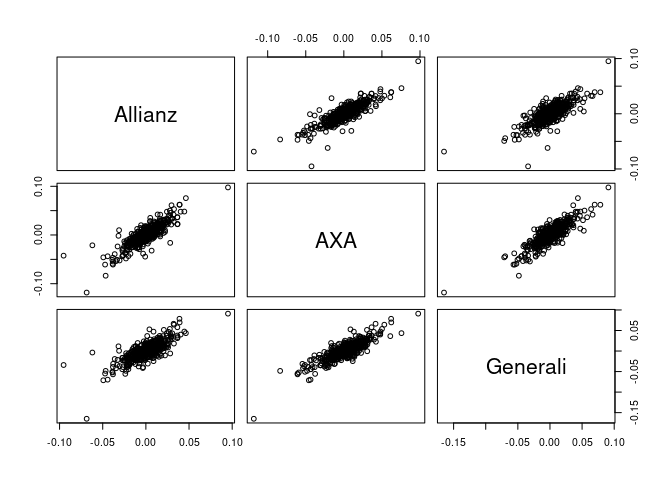
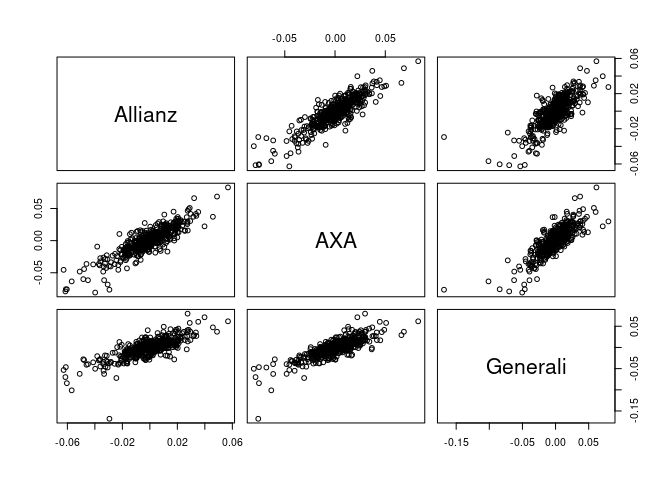
add proper paper reference

diff --git a/docs/index.html b/docs/index.html
@@ -84,7 +84,7 @@
 <div id="usage" class="section level2">
 <h2 class="hasAnchor">
 <a href="#usage" class="anchor"></a>Usage</h2>
-<p>For detailed documentation and examples, see the <a href="https://tnagler.github.io/svines/">API documentation</a>.</p>
+<p>For detailed documentation and examples, see the <a href="http://tnagler.com/svines.pdf">API documentation</a>.</p>
 <div class="sourceCode" id="cb2"><pre class="r"><span class="fu"><a href="https://rdrr.io/r/base/library.html">library</a></span>(<span class="no">svines</span>)
 <span class="co">#&gt; Loading required package: rvinecopulib</span>
 <span class="fu"><a href="https://rdrr.io/r/utils/data.html">data</a></span>(<span class="no">returns</span>)  <span class="co"># data set of stock returns</span>
@@ -169,70 +169,75 @@
 <span class="fu"><a href="https://rdrr.io/r/base/summary.html">summary</a></span>(<span class="no">models</span><span class="kw">[[</span><span class="fl">1</span>]])
 <span class="co">#&gt; $margins</span>
 <span class="co">#&gt; # A data.frame: 3 x 5 </span>
-<span class="co">#&gt;  margin     name          model                          parameters loglik</span>
-<span class="co">#&gt;       1  Allianz Skew Student-t     -0.0011, 0.0173, 2.9614, 0.9345     NA</span>
-<span class="co">#&gt;       2      AXA Skew Student-t -0.00061, 0.02205, 2.70703, 0.94818     NA</span>
-<span class="co">#&gt;       3 Generali      Student-t             -0.0023, 0.0214, 3.6512     NA</span>
+<span class="co">#&gt;  margin     name          model                      parameters loglik</span>
+<span class="co">#&gt;       1  Allianz Skew Student-t -0.0013, 0.0197, 4.9100, 0.9047     NA</span>
+<span class="co">#&gt;       2      AXA Skew Student-t -0.0027, 0.0243, 4.9817, 0.8743     NA</span>
+<span class="co">#&gt;       3 Generali      Student-t      -0.00022, 0.02381, 3.58409     NA</span>
 <span class="co">#&gt; </span>
 <span class="co">#&gt; $copula</span>
 <span class="co">#&gt; # A data.frame: 15 x 10 </span>
-<span class="co">#&gt;  tree edge conditioned conditioning var_types family rotation     parameters df</span>
-<span class="co">#&gt;     1    1        4, 5                    c,c      t        0     0.86, 3.55  2</span>
-<span class="co">#&gt;     1    2        5, 6                    c,c    bb1      180     0.39, 2.15  2</span>
-<span class="co">#&gt;     1    3        6, 1                    c,c    joe      180            1.1  1</span>
-<span class="co">#&gt;     1    4        1, 2                    c,c      t        0     0.86, 3.55  2</span>
-<span class="co">#&gt;     1    5        2, 3                    c,c    bb1      180     0.39, 2.15  2</span>
-<span class="co">#&gt;     2    1        4, 6            5       c,c  frank        0           0.93  1</span>
-<span class="co">#&gt;     2    2        5, 1            6       c,c gumbel      180              1  1</span>
-<span class="co">#&gt;     2    3        6, 2            1       c,c    joe       90              1  1</span>
-<span class="co">#&gt;     2    4        1, 3            2       c,c  frank        0           0.93  1</span>
-<span class="co">#&gt;     3    1        4, 1         6, 5       c,c      t        0 -0.071, 11.814  2</span>
+<span class="co">#&gt;  tree edge conditioned conditioning var_types family rotation  parameters df</span>
+<span class="co">#&gt;     1    1        4, 5                    c,c      t        0  0.85, 3.27  2</span>
+<span class="co">#&gt;     1    2        5, 6                    c,c    bb1      180  0.59, 1.93  2</span>
+<span class="co">#&gt;     1    3        6, 1                    c,c    joe      180         1.1  1</span>
+<span class="co">#&gt;     1    4        1, 2                    c,c      t        0  0.85, 3.27  2</span>
+<span class="co">#&gt;     1    5        2, 3                    c,c    bb1      180  0.59, 1.93  2</span>
+<span class="co">#&gt;     2    1        4, 6            5       c,c  frank        0         1.2  1</span>
+<span class="co">#&gt;     2    2        5, 1            6       c,c gumbel      180           1  1</span>
+<span class="co">#&gt;     2    3        6, 2            1       c,c    joe       90           1  1</span>
+<span class="co">#&gt;     2    4        1, 3            2       c,c  frank        0         1.2  1</span>
+<span class="co">#&gt;     3    1        4, 1         6, 5       c,c      t        0 -0.02, 7.88  2</span>
 <span class="co">#&gt;      tau</span>
-<span class="co">#&gt;   0.6589</span>
-<span class="co">#&gt;   0.6099</span>
-<span class="co">#&gt;   0.0341</span>
-<span class="co">#&gt;   0.6589</span>
-<span class="co">#&gt;   0.6099</span>
-<span class="co">#&gt;   0.0355</span>
-<span class="co">#&gt;   0.0057</span>
-<span class="co">#&gt;  -0.0235</span>
-<span class="co">#&gt;   0.0355</span>
-<span class="co">#&gt;  -0.0452</span>
+<span class="co">#&gt;   0.6423</span>
+<span class="co">#&gt;   0.6012</span>
+<span class="co">#&gt;   0.0575</span>
+<span class="co">#&gt;   0.6423</span>
+<span class="co">#&gt;   0.6012</span>
+<span class="co">#&gt;   0.0450</span>
+<span class="co">#&gt;   0.0066</span>
+<span class="co">#&gt;  -0.0148</span>
+<span class="co">#&gt;   0.0450</span>
+<span class="co">#&gt;  -0.0128</span>
 <span class="co">#&gt; # ... with 5 more rows</span>
 <span class="fu"><a href="https://rdrr.io/r/base/summary.html">summary</a></span>(<span class="no">models</span><span class="kw">[[</span><span class="fl">1</span>]])
 <span class="co">#&gt; $margins</span>
 <span class="co">#&gt; # A data.frame: 3 x 5 </span>
-<span class="co">#&gt;  margin     name          model                          parameters loglik</span>
-<span class="co">#&gt;       1  Allianz Skew Student-t     -0.0011, 0.0173, 2.9614, 0.9345     NA</span>
-<span class="co">#&gt;       2      AXA Skew Student-t -0.00061, 0.02205, 2.70703, 0.94818     NA</span>
-<span class="co">#&gt;       3 Generali      Student-t             -0.0023, 0.0214, 3.6512     NA</span>
+<span class="co">#&gt;  margin     name          model                      parameters loglik</span>
+<span class="co">#&gt;       1  Allianz Skew Student-t -0.0013, 0.0197, 4.9100, 0.9047     NA</span>
+<span class="co">#&gt;       2      AXA Skew Student-t -0.0027, 0.0243, 4.9817, 0.8743     NA</span>
+<span class="co">#&gt;       3 Generali      Student-t      -0.00022, 0.02381, 3.58409     NA</span>
 <span class="co">#&gt; </span>
 <span class="co">#&gt; $copula</span>
 <span class="co">#&gt; # A data.frame: 15 x 10 </span>
-<span class="co">#&gt;  tree edge conditioned conditioning var_types family rotation     parameters df</span>
-<span class="co">#&gt;     1    1        4, 5                    c,c      t        0     0.86, 3.55  2</span>
-<span class="co">#&gt;     1    2        5, 6                    c,c    bb1      180     0.39, 2.15  2</span>
-<span class="co">#&gt;     1    3        6, 1                    c,c    joe      180            1.1  1</span>
-<span class="co">#&gt;     1    4        1, 2                    c,c      t        0     0.86, 3.55  2</span>
-<span class="co">#&gt;     1    5        2, 3                    c,c    bb1      180     0.39, 2.15  2</span>
-<span class="co">#&gt;     2    1        4, 6            5       c,c  frank        0           0.93  1</span>
-<span class="co">#&gt;     2    2        5, 1            6       c,c gumbel      180              1  1</span>
-<span class="co">#&gt;     2    3        6, 2            1       c,c    joe       90              1  1</span>
-<span class="co">#&gt;     2    4        1, 3            2       c,c  frank        0           0.93  1</span>
-<span class="co">#&gt;     3    1        4, 1         6, 5       c,c      t        0 -0.071, 11.814  2</span>
+<span class="co">#&gt;  tree edge conditioned conditioning var_types family rotation  parameters df</span>
+<span class="co">#&gt;     1    1        4, 5                    c,c      t        0  0.85, 3.27  2</span>
+<span class="co">#&gt;     1    2        5, 6                    c,c    bb1      180  0.59, 1.93  2</span>
+<span class="co">#&gt;     1    3        6, 1                    c,c    joe      180         1.1  1</span>
+<span class="co">#&gt;     1    4        1, 2                    c,c      t        0  0.85, 3.27  2</span>
+<span class="co">#&gt;     1    5        2, 3                    c,c    bb1      180  0.59, 1.93  2</span>
+<span class="co">#&gt;     2    1        4, 6            5       c,c  frank        0         1.2  1</span>
+<span class="co">#&gt;     2    2        5, 1            6       c,c gumbel      180           1  1</span>
+<span class="co">#&gt;     2    3        6, 2            1       c,c    joe       90           1  1</span>
+<span class="co">#&gt;     2    4        1, 3            2       c,c  frank        0         1.2  1</span>
+<span class="co">#&gt;     3    1        4, 1         6, 5       c,c      t        0 -0.02, 7.88  2</span>
 <span class="co">#&gt;      tau</span>
-<span class="co">#&gt;   0.6589</span>
-<span class="co">#&gt;   0.6099</span>
-<span class="co">#&gt;   0.0341</span>
-<span class="co">#&gt;   0.6589</span>
-<span class="co">#&gt;   0.6099</span>
-<span class="co">#&gt;   0.0355</span>
-<span class="co">#&gt;   0.0057</span>
-<span class="co">#&gt;  -0.0235</span>
-<span class="co">#&gt;   0.0355</span>
-<span class="co">#&gt;  -0.0452</span>
+<span class="co">#&gt;   0.6423</span>
+<span class="co">#&gt;   0.6012</span>
+<span class="co">#&gt;   0.0575</span>
+<span class="co">#&gt;   0.6423</span>
+<span class="co">#&gt;   0.6012</span>
+<span class="co">#&gt;   0.0450</span>
+<span class="co">#&gt;   0.0066</span>
+<span class="co">#&gt;  -0.0148</span>
+<span class="co">#&gt;   0.0450</span>
+<span class="co">#&gt;  -0.0128</span>
 <span class="co">#&gt; # ... with 5 more rows</span></pre></div>
 </div>
+</div>
+<div id="references" class="section level2">
+<h2 class="hasAnchor">
+<a href="#references" class="anchor"></a>References</h2>
+<p>Nagler, T., Krüger, D., Min, A. (2020). Stationary vine copula models for multivariate time series. <a href="http://tnagler.com/svines.pdf">pdf</a></p>
 </div>
 
   </div>

diff --git a/README.md b/README.md
@@ -31,7 +31,7 @@ devtools::install_github("tnagler/svines")
 ## Usage
 
 For detailed documentation and examples, see the [API
-documentation](https://tnagler.github.io/svines/).
+documentation](http://tnagler.com/svines.pdf).
 
 ``` r
 library(svines)
@@ -140,67 +140,72 @@ models <- svine_sim_se_models(2, fit)
 summary(models[[1]])
 #> $margins
 #> # A data.frame: 3 x 5 
-#>  margin     name          model                          parameters loglik
-#>       1  Allianz Skew Student-t     -0.0011, 0.0173, 2.9614, 0.9345     NA
-#>       2      AXA Skew Student-t -0.00061, 0.02205, 2.70703, 0.94818     NA
-#>       3 Generali      Student-t             -0.0023, 0.0214, 3.6512     NA
+#>  margin     name          model                      parameters loglik
+#>       1  Allianz Skew Student-t -0.0013, 0.0197, 4.9100, 0.9047     NA
+#>       2      AXA Skew Student-t -0.0027, 0.0243, 4.9817, 0.8743     NA
+#>       3 Generali      Student-t      -0.00022, 0.02381, 3.58409     NA
 #> 
 #> $copula
 #> # A data.frame: 15 x 10 
-#>  tree edge conditioned conditioning var_types family rotation     parameters df
-#>     1    1        4, 5                    c,c      t        0     0.86, 3.55  2
-#>     1    2        5, 6                    c,c    bb1      180     0.39, 2.15  2
-#>     1    3        6, 1                    c,c    joe      180            1.1  1
-#>     1    4        1, 2                    c,c      t        0     0.86, 3.55  2
-#>     1    5        2, 3                    c,c    bb1      180     0.39, 2.15  2
-#>     2    1        4, 6            5       c,c  frank        0           0.93  1
-#>     2    2        5, 1            6       c,c gumbel      180              1  1
-#>     2    3        6, 2            1       c,c    joe       90              1  1
-#>     2    4        1, 3            2       c,c  frank        0           0.93  1
-#>     3    1        4, 1         6, 5       c,c      t        0 -0.071, 11.814  2
+#>  tree edge conditioned conditioning var_types family rotation  parameters df
+#>     1    1        4, 5                    c,c      t        0  0.85, 3.27  2
+#>     1    2        5, 6                    c,c    bb1      180  0.59, 1.93  2
+#>     1    3        6, 1                    c,c    joe      180         1.1  1
+#>     1    4        1, 2                    c,c      t        0  0.85, 3.27  2
+#>     1    5        2, 3                    c,c    bb1      180  0.59, 1.93  2
+#>     2    1        4, 6            5       c,c  frank        0         1.2  1
+#>     2    2        5, 1            6       c,c gumbel      180           1  1
+#>     2    3        6, 2            1       c,c    joe       90           1  1
+#>     2    4        1, 3            2       c,c  frank        0         1.2  1
+#>     3    1        4, 1         6, 5       c,c      t        0 -0.02, 7.88  2
 #>      tau
-#>   0.6589
-#>   0.6099
-#>   0.0341
-#>   0.6589
-#>   0.6099
-#>   0.0355
-#>   0.0057
-#>  -0.0235
-#>   0.0355
-#>  -0.0452
+#>   0.6423
+#>   0.6012
+#>   0.0575
+#>   0.6423
+#>   0.6012
+#>   0.0450
+#>   0.0066
+#>  -0.0148
+#>   0.0450
+#>  -0.0128
 #> # ... with 5 more rows
 summary(models[[1]])
 #> $margins
 #> # A data.frame: 3 x 5 
-#>  margin     name          model                          parameters loglik
-#>       1  Allianz Skew Student-t     -0.0011, 0.0173, 2.9614, 0.9345     NA
-#>       2      AXA Skew Student-t -0.00061, 0.02205, 2.70703, 0.94818     NA
-#>       3 Generali      Student-t             -0.0023, 0.0214, 3.6512     NA
+#>  margin     name          model                      parameters loglik
+#>       1  Allianz Skew Student-t -0.0013, 0.0197, 4.9100, 0.9047     NA
+#>       2      AXA Skew Student-t -0.0027, 0.0243, 4.9817, 0.8743     NA
+#>       3 Generali      Student-t      -0.00022, 0.02381, 3.58409     NA
 #> 
 #> $copula
 #> # A data.frame: 15 x 10 
-#>  tree edge conditioned conditioning var_types family rotation     parameters df
-#>     1    1        4, 5                    c,c      t        0     0.86, 3.55  2
-#>     1    2        5, 6                    c,c    bb1      180     0.39, 2.15  2
-#>     1    3        6, 1                    c,c    joe      180            1.1  1
-#>     1    4        1, 2                    c,c      t        0     0.86, 3.55  2
-#>     1    5        2, 3                    c,c    bb1      180     0.39, 2.15  2
-#>     2    1        4, 6            5       c,c  frank        0           0.93  1
-#>     2    2        5, 1            6       c,c gumbel      180              1  1
-#>     2    3        6, 2            1       c,c    joe       90              1  1
-#>     2    4        1, 3            2       c,c  frank        0           0.93  1
-#>     3    1        4, 1         6, 5       c,c      t        0 -0.071, 11.814  2
+#>  tree edge conditioned conditioning var_types family rotation  parameters df
+#>     1    1        4, 5                    c,c      t        0  0.85, 3.27  2
+#>     1    2        5, 6                    c,c    bb1      180  0.59, 1.93  2
+#>     1    3        6, 1                    c,c    joe      180         1.1  1
+#>     1    4        1, 2                    c,c      t        0  0.85, 3.27  2
+#>     1    5        2, 3                    c,c    bb1      180  0.59, 1.93  2
+#>     2    1        4, 6            5       c,c  frank        0         1.2  1
+#>     2    2        5, 1            6       c,c gumbel      180           1  1
+#>     2    3        6, 2            1       c,c    joe       90           1  1
+#>     2    4        1, 3            2       c,c  frank        0         1.2  1
+#>     3    1        4, 1         6, 5       c,c      t        0 -0.02, 7.88  2
 #>      tau
-#>   0.6589
-#>   0.6099
-#>   0.0341
-#>   0.6589
-#>   0.6099
-#>   0.0355
-#>   0.0057
-#>  -0.0235
-#>   0.0355
-#>  -0.0452
+#>   0.6423
+#>   0.6012
+#>   0.0575
+#>   0.6423
+#>   0.6012
+#>   0.0450
+#>   0.0066
+#>  -0.0148
+#>   0.0450
+#>  -0.0128
 #> # ... with 5 more rows
 ```
+
+## References
+
+Nagler, T., Krüger, D., Min, A. (2020). Stationary vine copula models
+for multivariate time series. [pdf](http://tnagler.com/svines.pdf)
